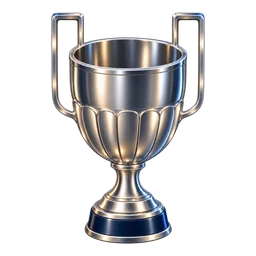
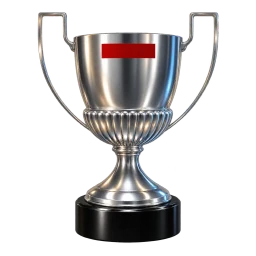
Pichichi picture corrected by the owner (v204)

diff --git a/sw.js b/sw.js
@@ -1,5 +1,5 @@
 // Offline cache: the app shell and its art; a new version replaces the old cache. The API is never cached.
-const VERSION = "derbyo-pwa-203";
+const VERSION = "derbyo-pwa-204";
 
 const SHELL = ["./", "index.html", "app.css", "manifest.webmanifest", "vendor/preact-htm.js",
   "js/app.js", "js/data.js", "js/model.js", "js/sound.js", "js/install.js", "js/push.js", "js/update.js", "js/invites.js", "js/ui/common.js", "js/ui/match.js", "js/ui/sheets.js", "js/ui/profile.js", "js/ui/lobby.js", "js/ui/tabbar.js", "js/touch.js", "js/net.js", "js/online.js", "js/ui/live.js", "js/ui/daily.js", "js/ui/games.js", "js/ui/account.js", "js/ui/explain.js", "js/ui/debug.js", "js/ui/friends.js"];

diff --git a/js/update.js b/js/update.js
@@ -1,7 +1,7 @@
 // New versions: a small fix loads by itself at a quiet moment; a release the owner announces shows the «Обновить» bubble.
 // Every publish raises BUILD here, `version` in version.json and VERSION in sw.js to the same number.
 // An announced one also sets `announce` in version.json to that number, with a short `text` for the bubble.
-export const BUILD = 203;
+export const BUILD = 204;
 
 let latest = null;
 export const updates = {

diff --git a/index.html b/index.html
@@ -14,7 +14,7 @@
 <link rel="manifest" href="manifest.webmanifest">
 <link rel="icon" href="icons/icon-192.png?v=4" type="image/png">
 <link rel="apple-touch-icon" href="icons/apple-touch-icon.png?v=4">
-<link rel="stylesheet" href="app.css?v=203">
+<link rel="stylesheet" href="app.css?v=204">
 </head>
 <body>
 <div id="root"></div>
